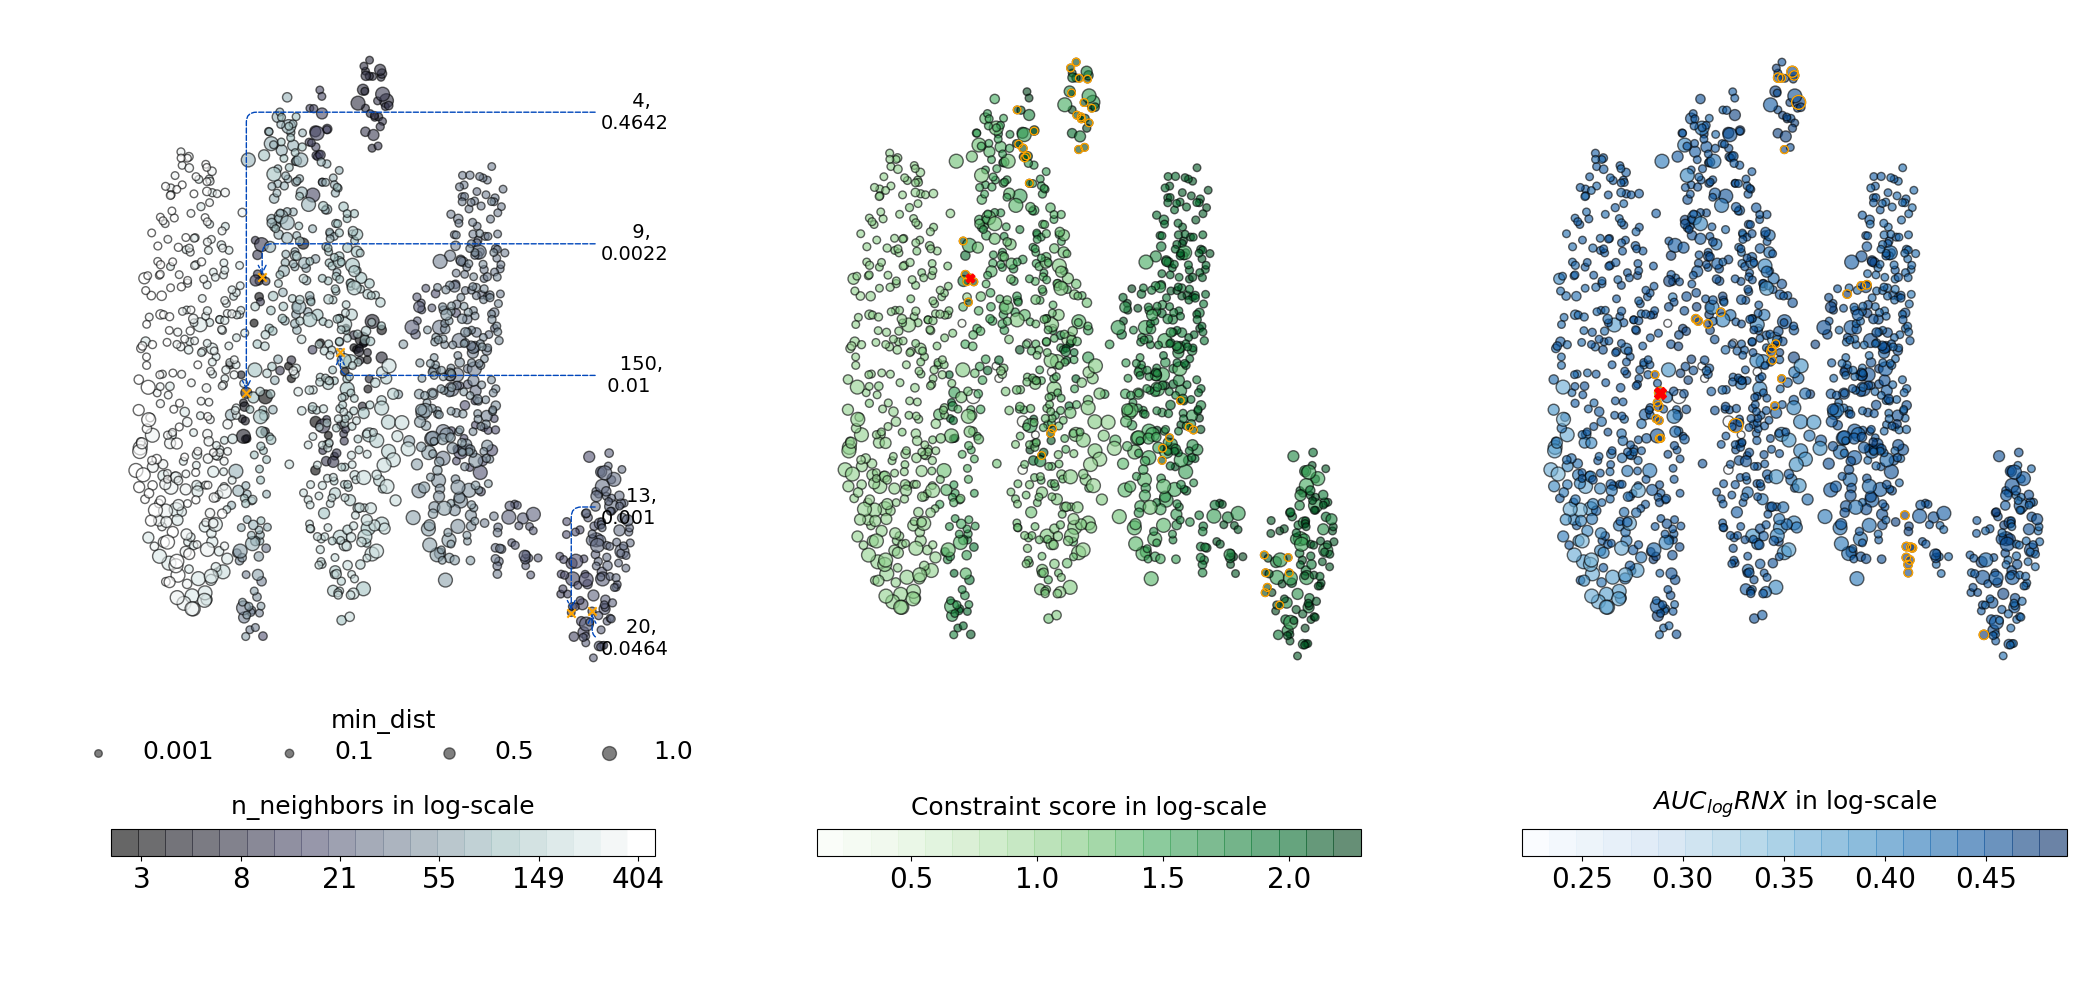
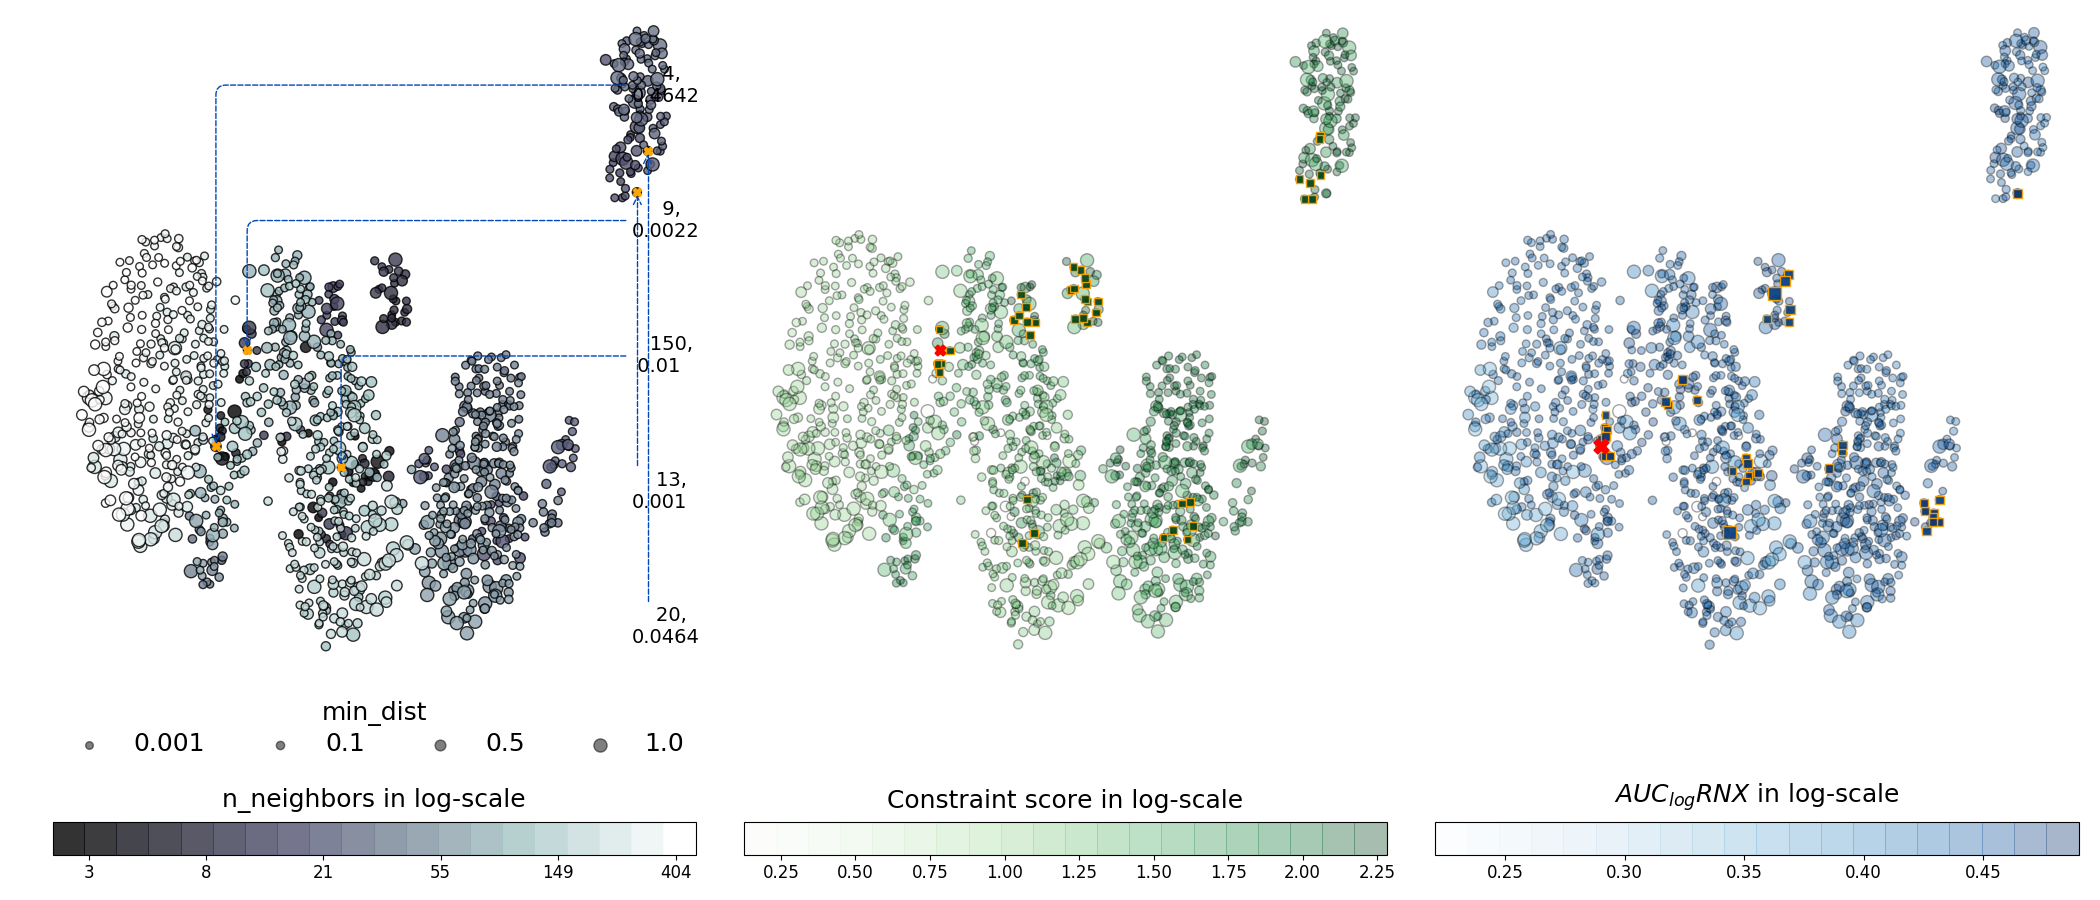
Fix readability for metamap umap 2D

diff --git a/code/plot_viz.py b/code/plot_viz.py
@@ -74,8 +74,8 @@ def _simple_scatter(ax, Z, labels=None, title="", comment="", axis_off=True):
 def _simple_scatter_with_colorbar(
     ax, Z, labels, title="", cmap_name="viridis", best_indices=None, best_idx=None
 ):
-    plot_for_score_values = best_indices is not None
     ax.axis("off")
+    plot_for_score_values = best_indices is not None
     marker_size = 80
     c_min, c_max = labels.min(), labels.max()
     norm = plt.Normalize(c_min, c_max)
@@ -137,6 +137,10 @@ def _scatter_with_colorbar_and_legend_size(
     show_legend=True,
 ):
     ax.axis("off")
+    plot_for_score_values = best_indices is not None
+    c_min, c_max = labels.min(), labels.max()
+    norm = plt.Normalize(c_min, c_max)
+    cmap = cm.get_cmap(cmap_name, 20)
 
     if best_indices is not None:
         Z_highlight = Z[best_indices]
@@ -144,29 +148,36 @@ def _scatter_with_colorbar_and_legend_size(
             Z_highlight[:, 0],
             Z_highlight[:, 1],
             s=sizes[best_indices],
-            facecolors="none",
+            c=labels[best_indices],
+            cmap=cmap,
             edgecolor="orange",
+            marker="s",
             zorder=99,
+            norm=norm,
+            alpha=0.9,
         )
     if best_idx is not None:
-        Z_best = Z[best_idx]
-        ax.scatter(
-            Z_best[0], Z_best[1], c="red", marker="X", s=sizes[best_idx] + 10, zorder=100
-        )
+        ax.scatter(*Z[best_idx], c="red", marker="X", s=2 * sizes[best_idx], zorder=100)
 
-    cmap = cm.get_cmap(cmap_name, 20)
     scatter = ax.scatter(
-        Z[:, 0], Z[:, 1], c=labels, s=sizes, alpha=0.6, cmap=cmap, edgecolor="black"
+        Z[:, 0],
+        Z[:, 1],
+        c=labels,
+        s=sizes,
+        alpha=0.35 if plot_for_score_values else 0.8,
+        cmap=cmap,
+        norm=norm,
+        edgecolor="black",
     )
     ax.text(
         x=0.5, y=-0.2, s=title, transform=ax.transAxes, va="bottom", ha="center", fontsize=18
     )
     cb = plt.colorbar(scatter, ax=ax, orientation="horizontal")
 
-    if show_legend:
-        # create "free" legend
+    if not plot_for_score_values:  # plot metamap by n_neighbors and min_dist values
+        # create "free" legend showing size of points by min_dist values
         min_dist_vals = [1e-3, 0.1, 0.5, 1.0]
-        min_dist_shows = MinMaxScaler((30, 100)).fit_transform(
+        min_dist_shows = MinMaxScaler((30, 90)).fit_transform(
             np.array(min_dist_vals).reshape(-1, 1)
         )
 
@@ -316,7 +327,7 @@ def plot_metamap_with_scores_tsne(
     annotate_selected_params_tsne(ax0, list_annotations)
 
     fig.tight_layout()
-    plt.subplots_adjust(wspace=0.075)
+    plt.subplots_adjust(wspace=0.075, bottom=-0.05, top=1.0, left=0.01)
     fig.savefig(f"{plot_dir}/metamap_scores_{meta_n_neighbors}.png")
 
 
@@ -362,7 +373,7 @@ def plot_metamap_with_scores_umap(
         ScoreConfig("rnx", "$AUC_{log}RNX$ in log-scale", "Blues", rnx_scores),
     ]
 
-    fig, axes = plt.subplots(1, 3, figsize=(21, 10))
+    fig, axes = plt.subplots(1, 3, figsize=(21, 9))
     for config, ax in zip(score_config, axes.ravel()):
         score_name, score_title, score_cmap, score_values = config
 
@@ -379,7 +390,7 @@ def plot_metamap_with_scores_umap(
             ax,
             Z,
             labels=score_values,
-            sizes=MinMaxScaler((30, 100)).fit_transform(list_min_dist.reshape(-1, 1)),
+            sizes=MinMaxScaler((30, 90)).fit_transform(list_min_dist.reshape(-1, 1)),
             title=score_title,
             cmap_name=score_cmap,
             best_indices=best_indices,
@@ -403,6 +414,7 @@ def plot_metamap_with_scores_umap(
     annotate_selected_params_umap(axes[0], list_annotations)
 
     fig.tight_layout()
+    plt.subplots_adjust(left=0.025, bottom=-0.075, top=1.0, wspace=0.075)
     fig.savefig(f"{plot_dir}/metamap_scores_{meta_n_neighbors}.png")
 
 
